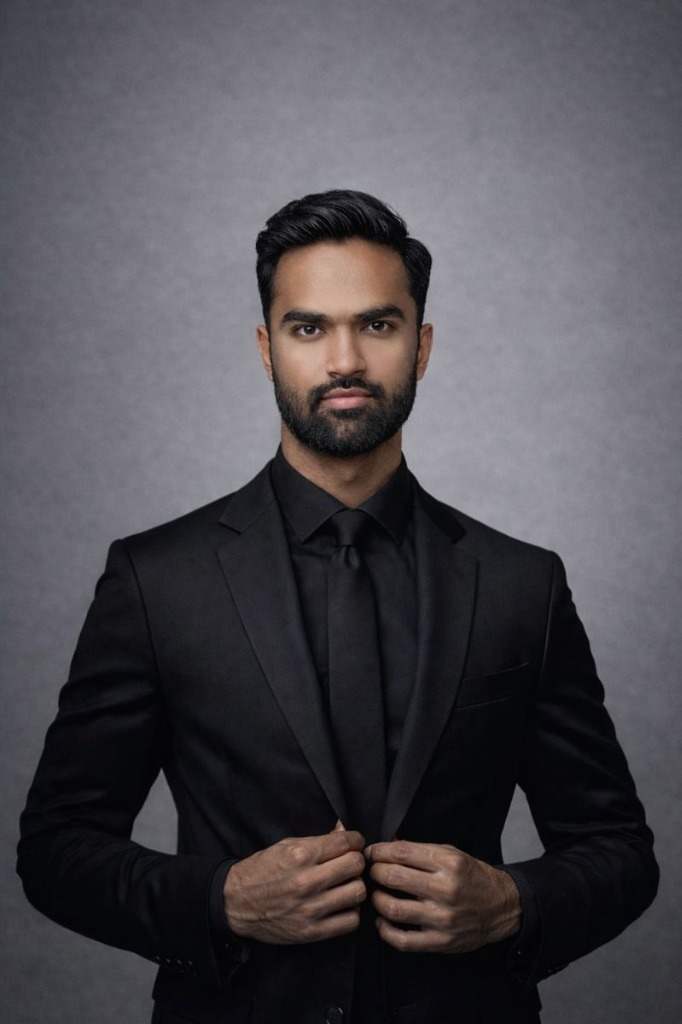
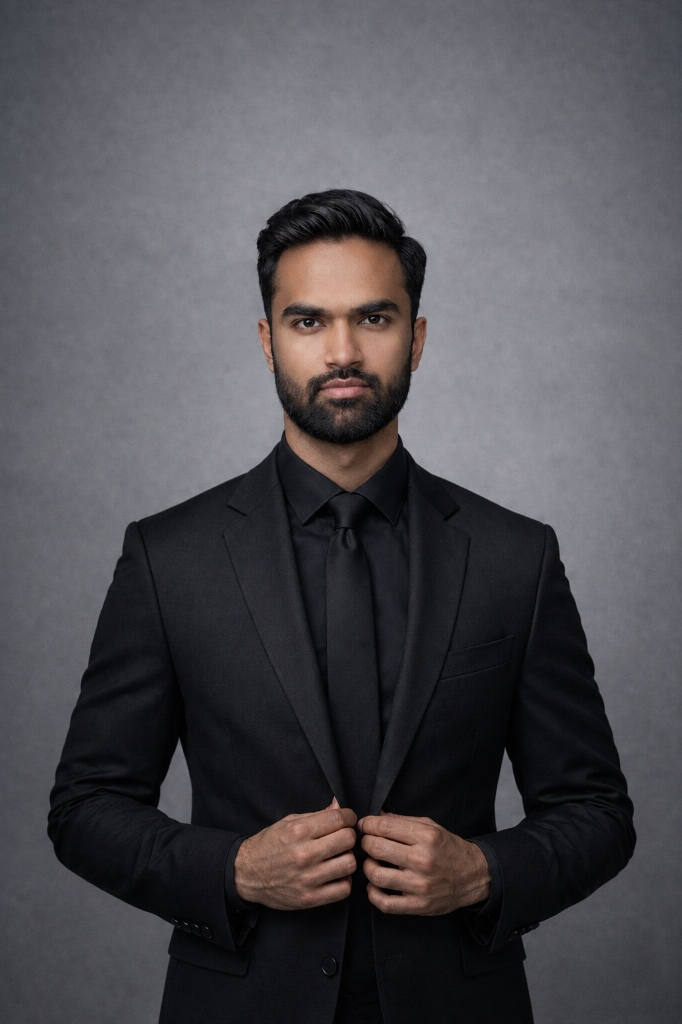
feat: update player portrait photo and optimize card frame framing & scale

diff --git a/css/style.css b/css/style.css
@@ -234,6 +234,7 @@ body {
   overflow: hidden;
 }
 
+
 .floodlight-beam {
   position: absolute;
   width: 200%;
@@ -799,9 +800,9 @@ body {
 /* Card Player Portrait */
 .card-photo-frame {
   position: relative;
-  width: 220px;
-  height: 250px;
-  margin: -10px auto 10px;
+  width: 260px;
+  height: 255px;
+  margin: -16px auto 8px;
   z-index: 4;
 }
 
@@ -809,11 +810,11 @@ body {
   width: 100%;
   height: 100%;
   object-fit: cover;
-  object-position: top center;
+  object-position: center 10%;
   border-radius: 16px;
-  transform: scale(1.25);
-  mask-image: linear-gradient(to bottom, black 75%, transparent 100%);
-  -webkit-mask-image: linear-gradient(to bottom, black 75%, transparent 100%);
+  transform: scale(1.06);
+  mask-image: linear-gradient(to bottom, black 82%, transparent 100%);
+  -webkit-mask-image: linear-gradient(to bottom, black 82%, transparent 100%);
   filter: drop-shadow(0 10px 15px rgba(0, 0, 0, 0.8));
 }
 
@@ -2038,6 +2039,11 @@ body {
   .fut-card {
     width: 320px;
     height: 480px;
+  }
+  .card-photo-frame {
+    width: 240px;
+    height: 235px;
+    margin: -14px auto 6px;
   }
   .football-pitch {
     transform: none !important;
